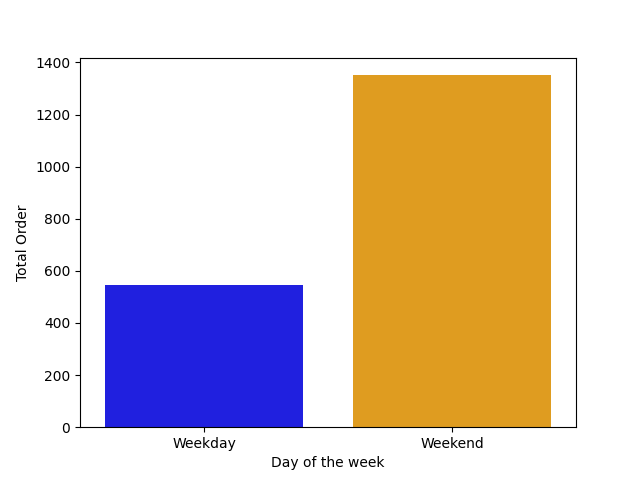
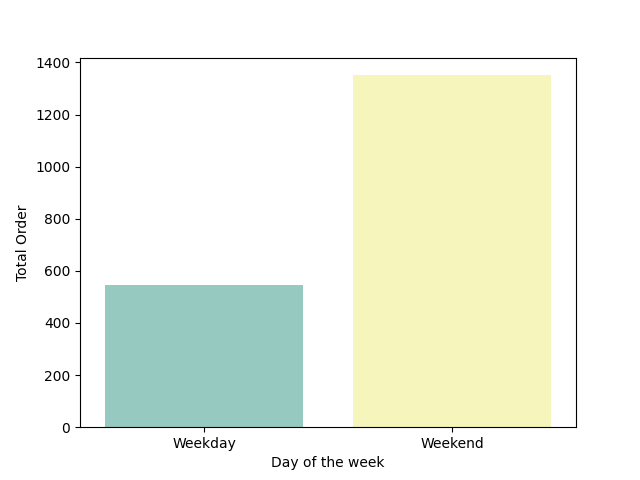
menambahkan bussiest day dan cost

diff --git a/README.md b/README.md
@@ -152,4 +152,37 @@ Dari gambar diatas, masakan amerika menjadi masakan yang paling banyak dipesan (
 
 ---
 
+"Mengecek Kolom Biaya Pesanan"
+```
+#Melihat rata-rata biaya dari setiap 
+df.cuisine_type.value_counts()
+print(df.groupby('cuisine_type')['cost_of_the_order'].mean())
 
+#Melihat desripsi dari kolom cost_of_the_order
+print(df.cost_of_the_order.describe())
+```
+![mean_and_desc_cost](pic/mean%20and%20description%20cost.png)
+
+Dari pengecekan yang dilakukan untuk rata-rata dari biaya pesanan adalah 16.49 dolar dengan biaya paling murah adalah 4.47 dolar dan biaya tertinggi 35.41 dolar.
+
+---
+
+"Mencari Hari Paling Sibuk (Paling Banyak Pemesanan)"
+```
+#Menjumlahkan pesanan pada kelompok hari
+most_ordered_week = df.groupby('day_of_the_week').count()
+most_ordered_week = most_ordered_week.reset_index('day_of_the_week')
+print(most_ordered_week[['day_of_the_week', 'order_id']])
+
+#Membuat dalam bentuk persentase
+print(df.day_of_the_week.value_counts(1)*100)
+
+#Membuat Diagram Batang 
+most_ordered_week_plot = sns.barplot(x='day_of_the_week', y='order_id', data=most_ordered_week, palette=colors)
+most_ordered_week_plot.set(xlabel= 'Day of the week', ylabel= 'Total Order')
+plt.show()
+```
+![bussiest_day](pic/check%20bussiest%20dayofweek.png)
+![bussiest_day_graph](pic/bussiest%20day%20graph(13).png)
+
+Dari data diatas hari yang paling sibuk adalah weekend (71,18%) dengan jumlah pesanan sebanyak 1351 pesanan dan weekday (28.81) sebanyak 547 pesanan.
